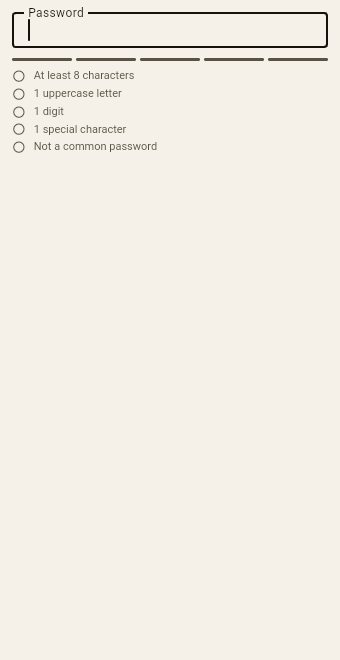
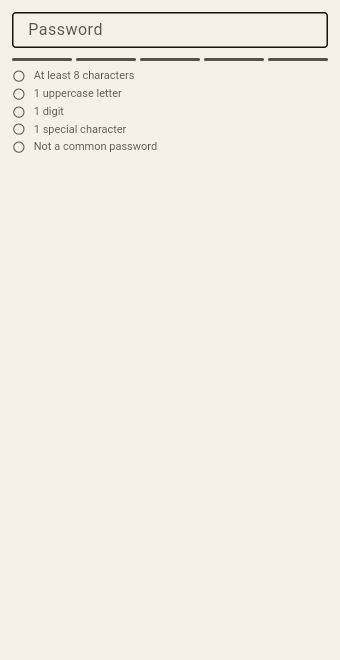
fix: keep keyboard focus off the demo field on page load

Changed region(s): [[0.0588, 0.0, 0.3235, 0.0606]]

diff --git a/demo/test/main_test.dart b/demo/test/main_test.dart
@@ -14,6 +14,22 @@ void main() {
       expect(find.byType(FlutterPwValidator), findsOneWidget);
     });
 
+    testWidgets('should not take keyboard focus on load', (tester) async {
+      await tester.pumpWidget(const DemoApp());
+      await tester.pump();
+
+      final field = tester.widget<TextField>(find.byType(TextField));
+      expect(field.autofocus, isFalse);
+      expect(
+        tester
+            .state<EditableTextState>(find.byType(EditableText))
+            .widget
+            .focusNode
+            .hasFocus,
+        isFalse,
+      );
+    });
+
     testWidgets('should list the five rules the demo enforces', (tester) async {
       await tester.pumpWidget(const DemoApp());
 

diff --git a/demo/lib/main.dart b/demo/lib/main.dart
@@ -63,7 +63,6 @@ class _DemoPageState extends State<DemoPage> {
           children: [
             TextField(
               controller: _controller,
-              autofocus: true,
               autocorrect: false,
               enableSuggestions: false,
               style: const TextStyle(fontSize: _fieldFontSize),
